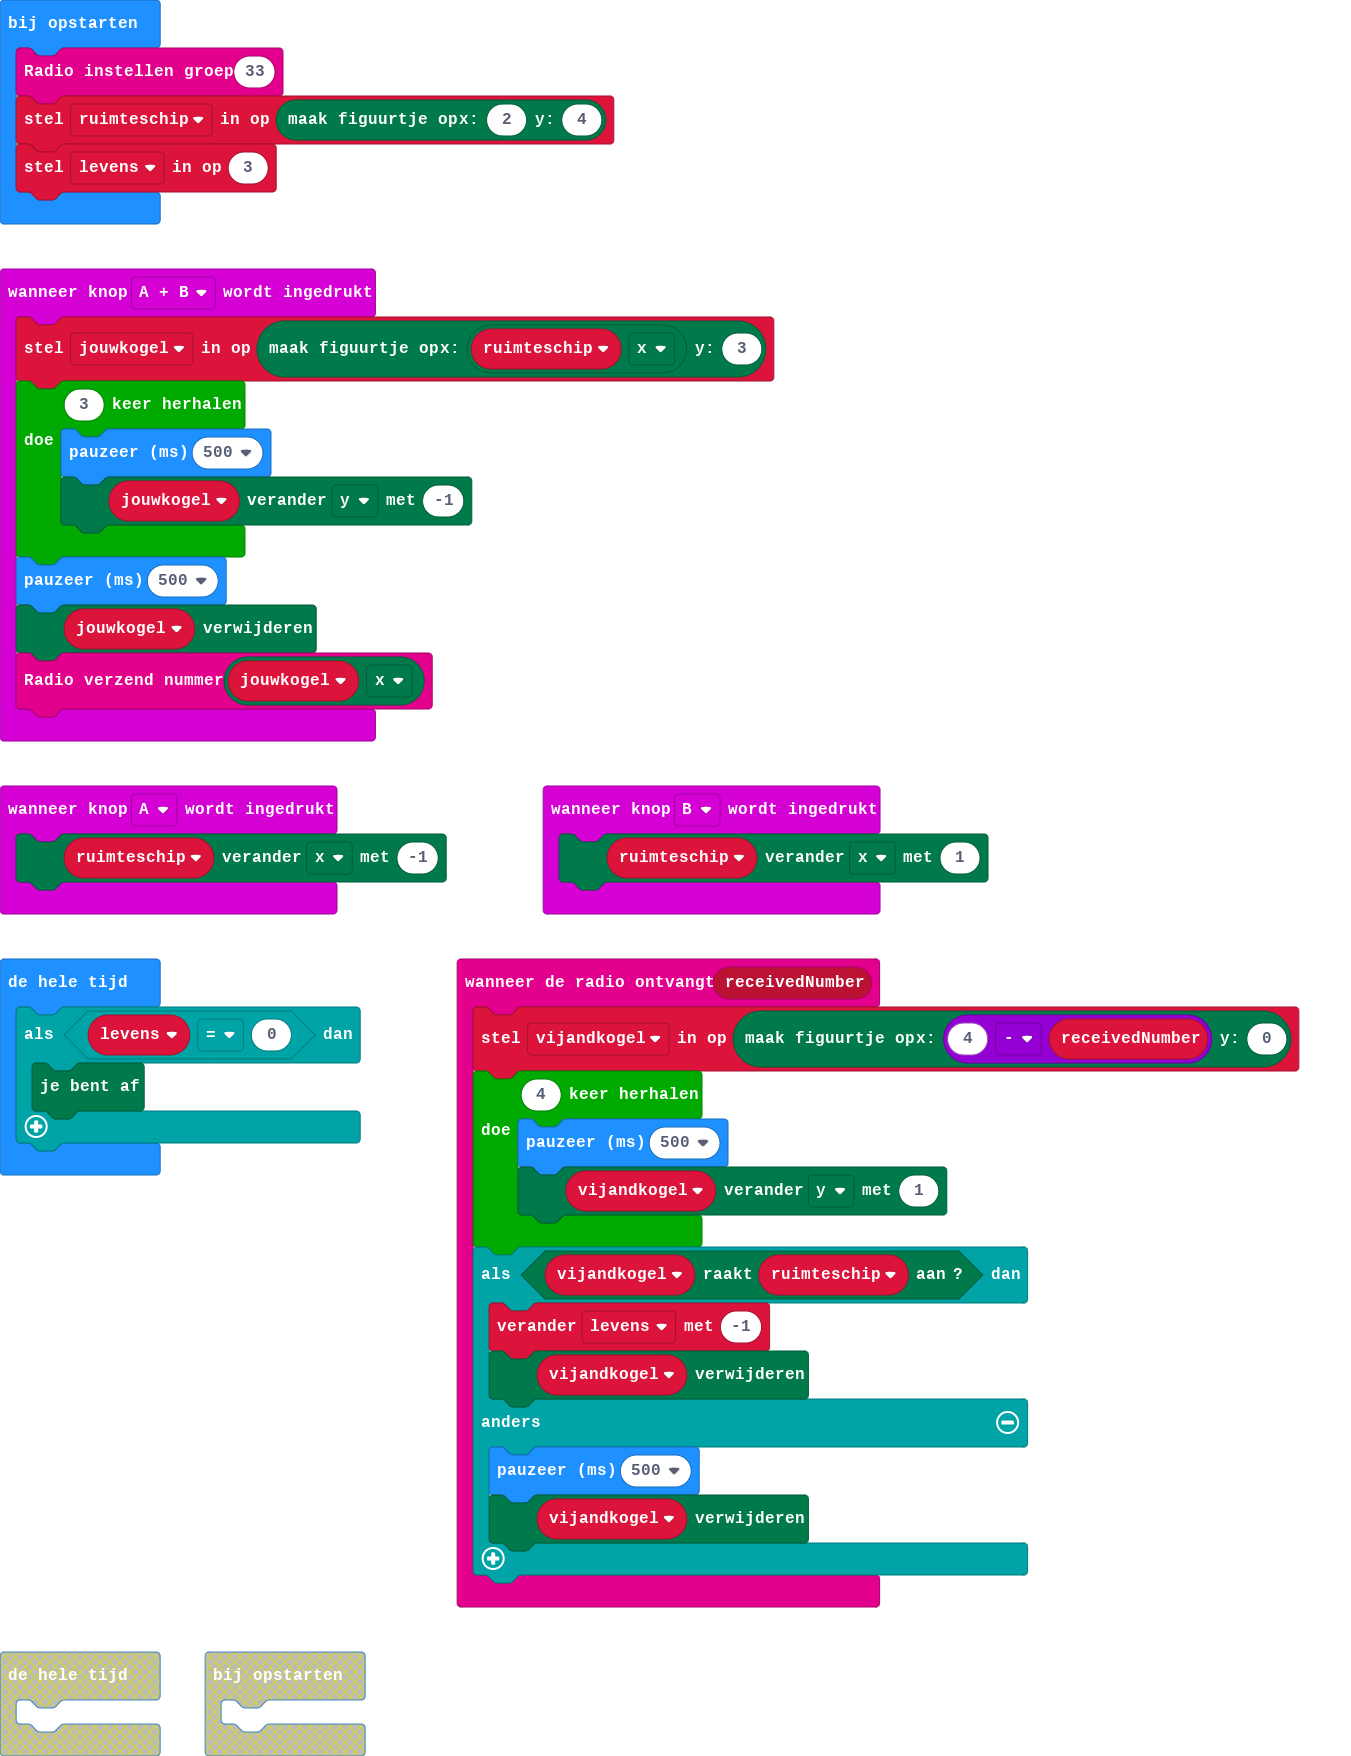
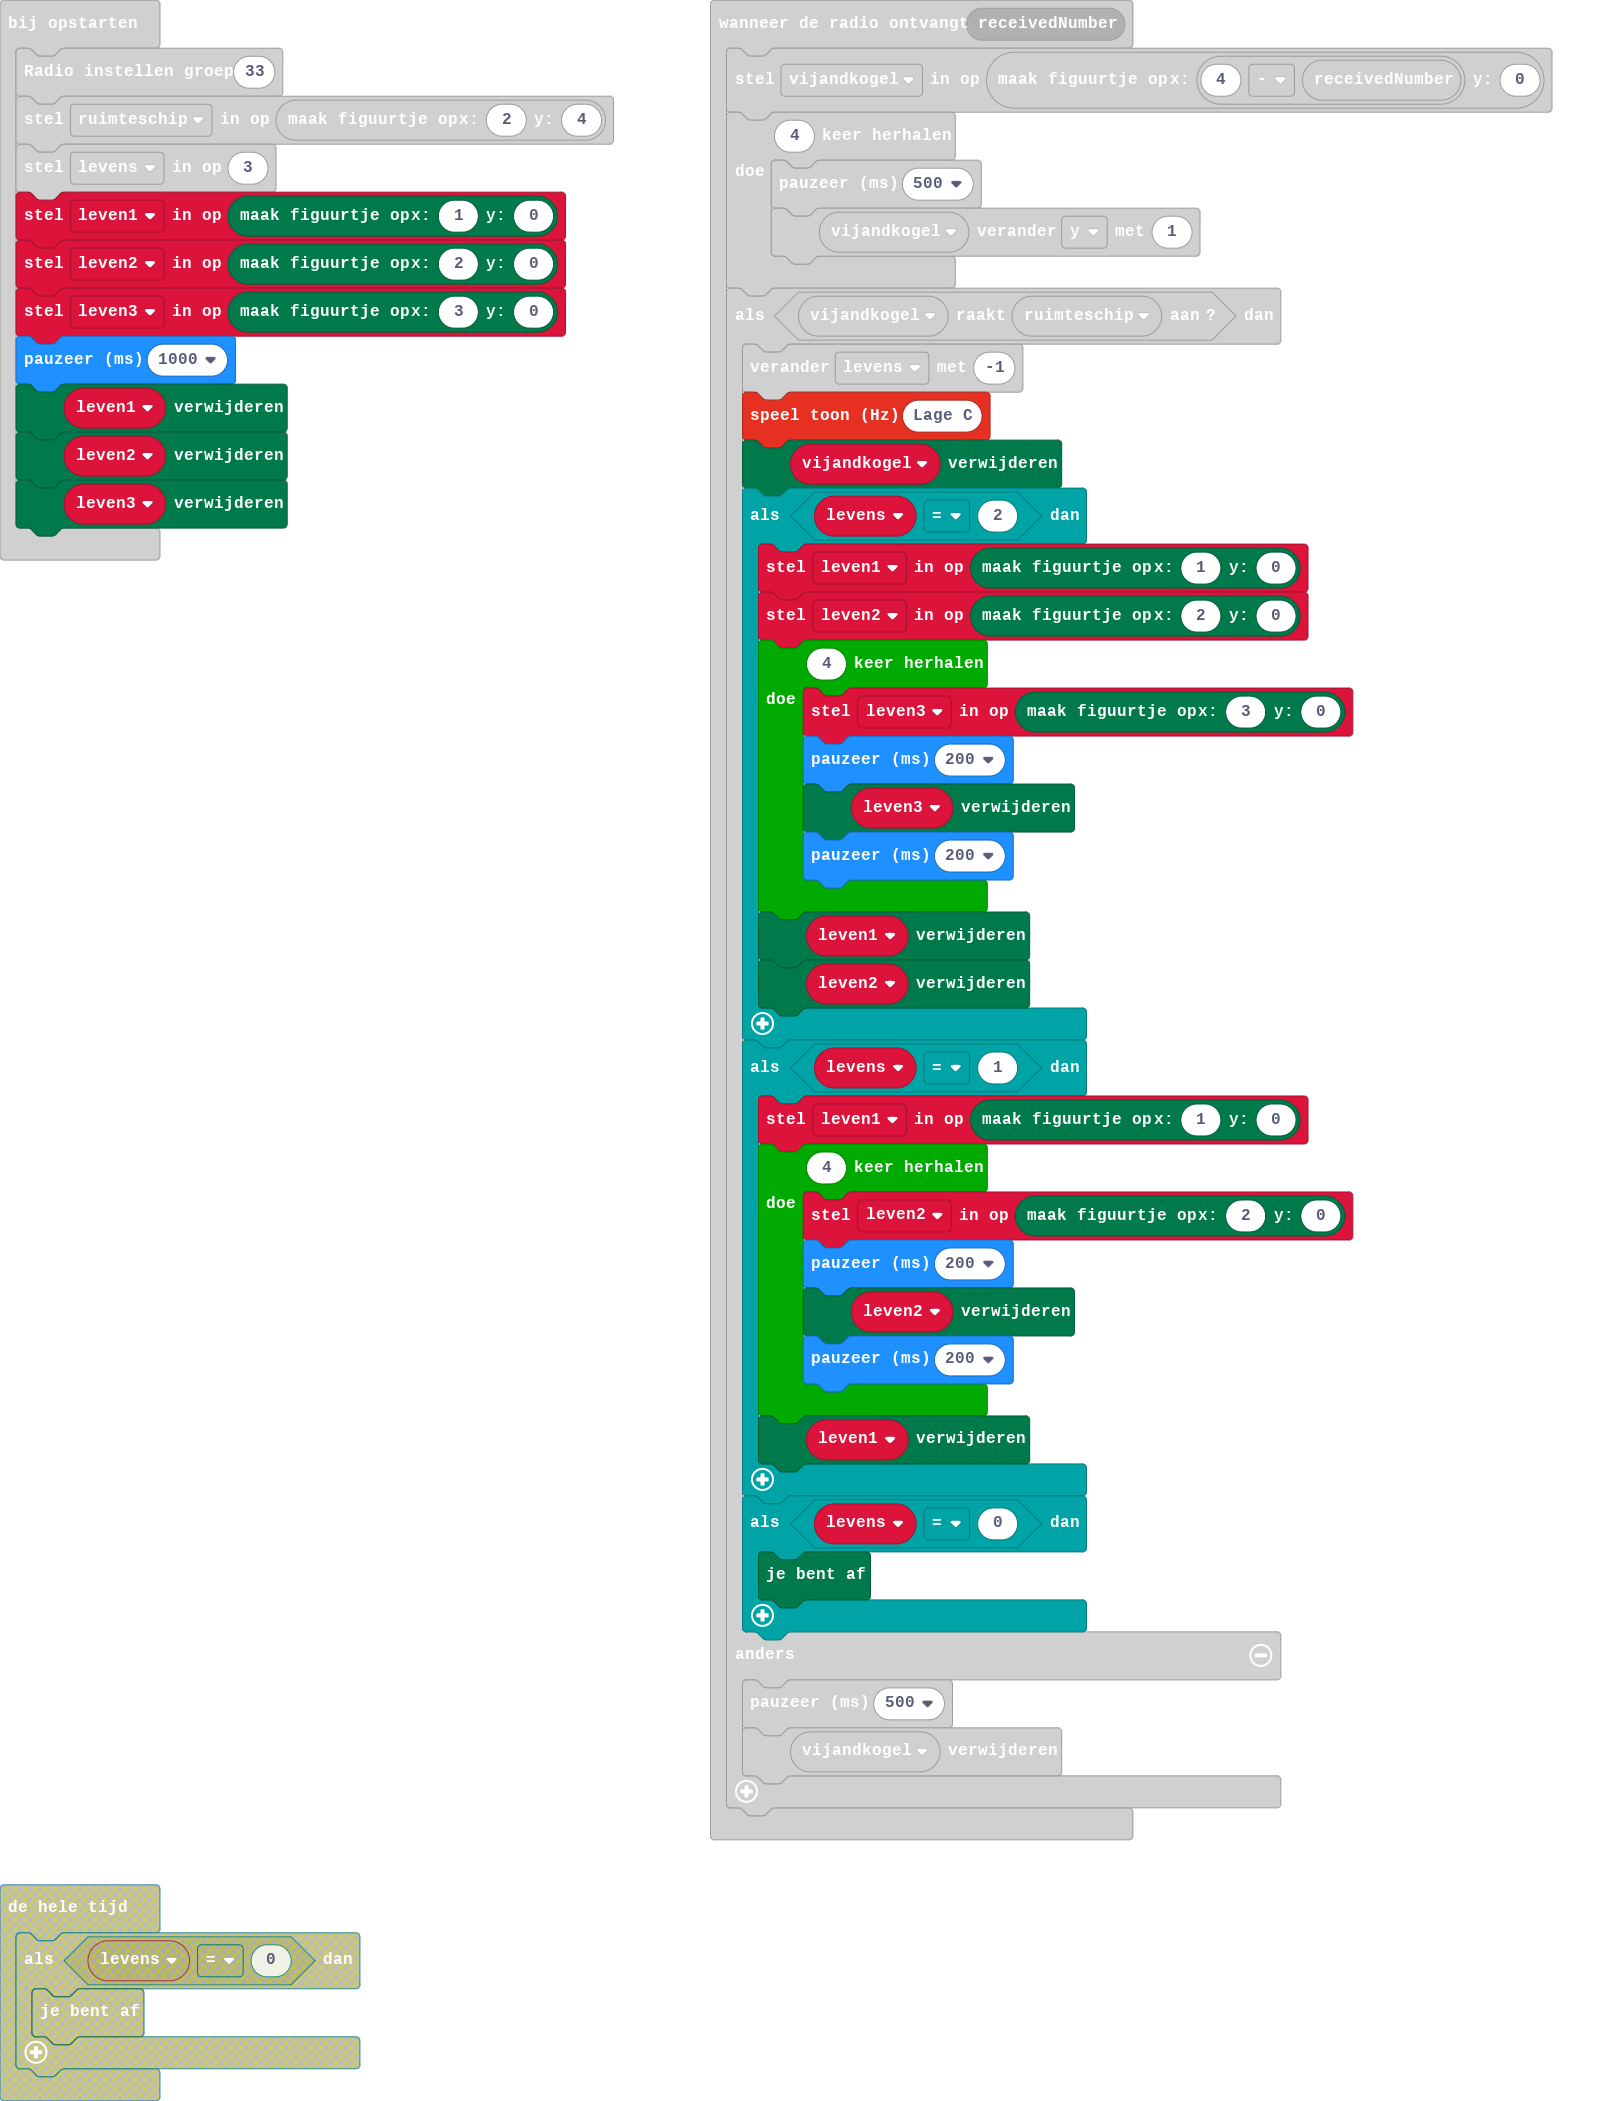
levens laten zien

diff --git a/main.ts b/main.ts
@@ -6,7 +6,33 @@ radio.onReceivedNumber(function (receivedNumber) {
     }
     if (vijandkogel.isTouching(ruimteschip)) {
         levens += -1
+        music.ringTone(131)
         vijandkogel.delete()
+        if (levens == 2) {
+            leven1 = game.createSprite(1, 0)
+            leven2 = game.createSprite(2, 0)
+            for (let index = 0; index < 4; index++) {
+                leven3 = game.createSprite(3, 0)
+                basic.pause(200)
+                leven3.delete()
+                basic.pause(200)
+            }
+            leven1.delete()
+            leven2.delete()
+        }
+        if (levens == 1) {
+            leven1 = game.createSprite(1, 0)
+            for (let index = 0; index < 4; index++) {
+                leven2 = game.createSprite(2, 0)
+                basic.pause(200)
+                leven2.delete()
+                basic.pause(200)
+            }
+            leven1.delete()
+        }
+        if (levens == 0) {
+            game.gameOver()
+        }
     } else {
         basic.pause(500)
         vijandkogel.delete()
@@ -30,12 +56,18 @@ input.onButtonPressed(Button.B, function () {
 })
 let jouwkogel: game.LedSprite = null
 let vijandkogel: game.LedSprite = null
+let leven3: game.LedSprite = null
+let leven2: game.LedSprite = null
+let leven1: game.LedSprite = null
+let levens = 0
 let ruimteschip: game.LedSprite = null
 radio.setGroup(33)
 ruimteschip = game.createSprite(2, 4)
-let levens = 3
-basic.forever(function () {
-    if (levens == 0) {
-        game.gameOver()
-    }
-})
+levens = 3
+leven1 = game.createSprite(1, 0)
+leven2 = game.createSprite(2, 0)
+leven3 = game.createSprite(3, 0)
+basic.pause(1000)
+leven1.delete()
+leven2.delete()
+leven3.delete()
